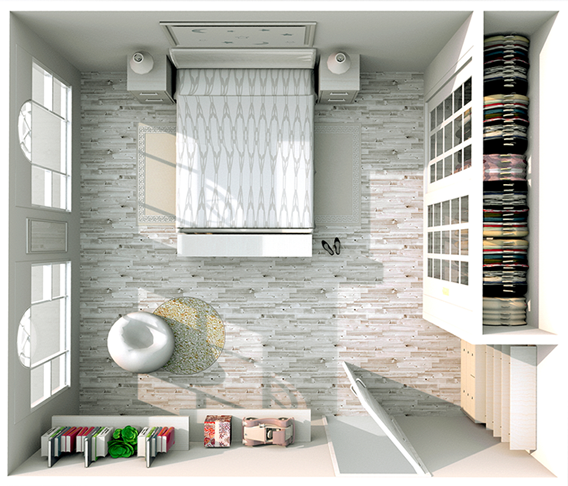
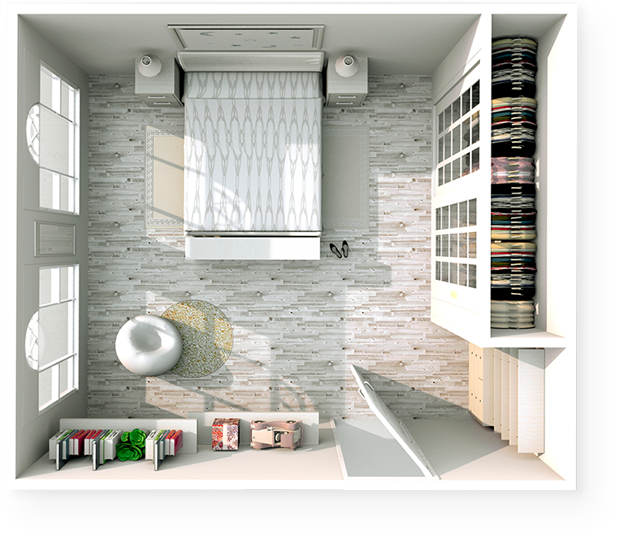
Добавлен адаптив главного блока, но без шрифтов и pixel perfect

diff --git a/src/css/style.css b/src/css/style.css
@@ -102,7 +102,8 @@ img {
 }
 
 .hero {
-  padding: 49px 0;
+  padding-top: 50px;
+  padding-bottom: 52px;
   background-color: #f5f5f5;
 }
 
@@ -124,6 +125,7 @@ img {
   font-size: 41px;
   font-weight: 800;
   line-height: 55px;
+  margin: 0;
   margin-bottom: 40px;
 }
 
@@ -169,9 +171,44 @@ img {
 
 .hero-list__text {
   max-width: 300px;
+  line-height: 24px;
 }
 
-.hero-image {
-  -webkit-box-shadow: 7px 5px 10px rgba(0, 0, 0, 0.05), 16px 22px 35px rgba(0, 0, 0, 0.05);
-          box-shadow: 7px 5px 10px rgba(0, 0, 0, 0.05), 16px 22px 35px rgba(0, 0, 0, 0.05);
+@media (max-width: 1200px) {
+  .hero-block {
+    -webkit-box-orient: vertical;
+    -webkit-box-direction: normal;
+        -ms-flex-direction: column;
+            flex-direction: column;
+  }
+  .hero-list {
+    margin-bottom: 44px;
+  }
+}
+
+@media (max-width: 768px) {
+  .hero {
+    padding-top: 46px;
+    padding-bottom: 52px;
+  }
+  .hero-text__title {
+    font-size: 24px;
+    line-height: 1.4;
+    margin-bottom: 5px;
+  }
+  .hero-text__subtitle {
+    font-size: 16px;
+    margin-bottom: 29px;
+  }
+  .hero-list__text {
+    font-size: 12px;
+    max-width: 200px;
+    line-height: 1.5;
+  }
+  .hero-list__image {
+    margin-right: 15px;
+  }
+  .hero-list__item {
+    margin-bottom: 20px;
+  }
 }

diff --git a/src/sass/blocks/_hero.sass b/src/sass/blocks/_hero.sass
@@ -1,5 +1,6 @@
 .hero
-  padding: 49px 0
+  padding-top: 50px
+  padding-bottom: 52px
   background-color: $bg-grey
   &-block
     display: flex
@@ -10,6 +11,7 @@
       font-size: 41px
       font-weight: 800
       line-height: 55px
+      margin: 0
       margin-bottom: 40px
     &__subtitle
       display: inline-block
@@ -34,5 +36,32 @@
       margin-right: 30px
     &__text
       max-width: 300px
-  &-image
-    box-shadow: 7px 5px 10px rgba(0, 0, 0, 0.05), 16px 22px 35px rgba(0, 0, 0, 0.05)
+      line-height: 24px
+    
+@media (max-width: 1200px)
+  .hero
+    &-block
+      flex-direction: column
+    &-list
+      margin-bottom: 44px
+@media (max-width: 768px)
+  .hero
+    padding-top: 46px
+    padding-bottom: 52px
+    &-text
+      &__title
+        font-size: 24px
+        line-height: 1.4
+        margin-bottom: 5px
+      &__subtitle
+        font-size: 16px
+        margin-bottom: 29px
+    &-list
+      &__text
+        font-size: 12px
+        max-width: 200px
+        line-height: 1.5
+      &__image
+        margin-right: 15px
+      &__item
+        margin-bottom: 20px
